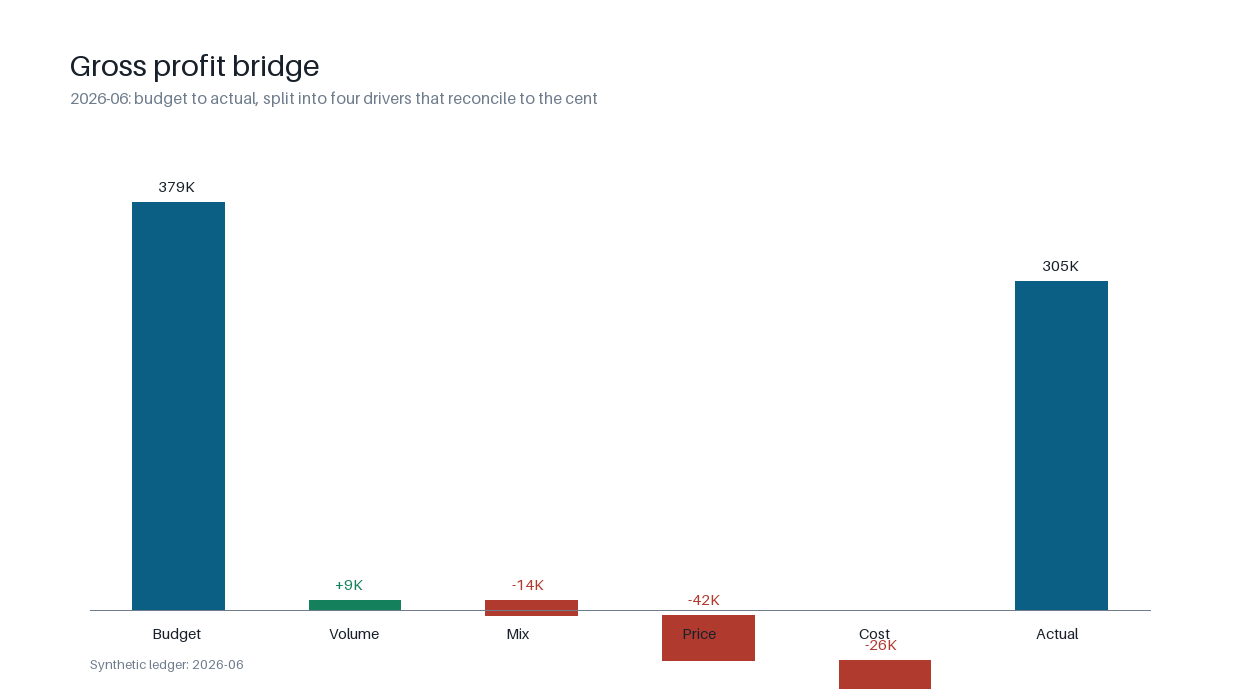
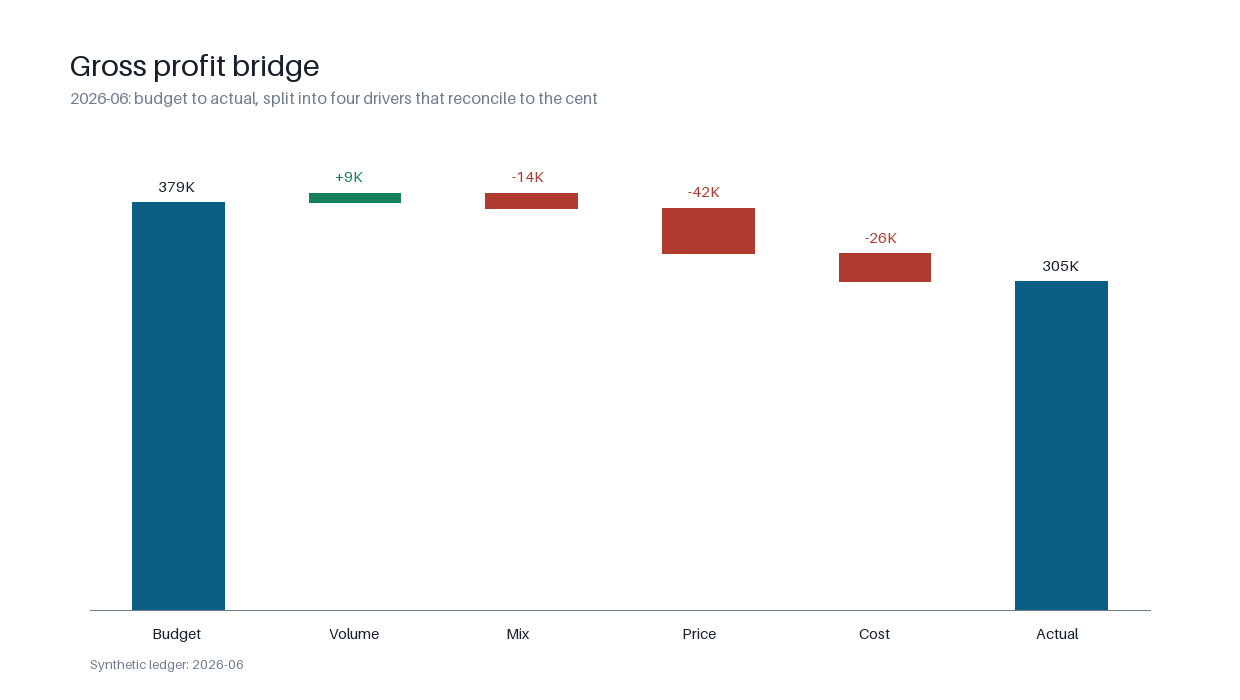
Anchor the waterfall at budget gross profit
The first delta bar started at zero instead of at the budget bar, so the
bridge drew five columns that did not chain. Guarded by a test that reads
the committed PNG back and checks each bar starts where the previous ended.
Also moves the trend legend clear of the month marker and adds month ticks.

diff --git a/tests/test_charts.py b/tests/test_charts.py
@@ -1,0 +1,100 @@
+"""The waterfall must actually be a waterfall.
+
+Bars are read back out of the rendered PNG and checked for the property that
+defines the chart: each bar starts where the previous one ended, and the chain
+starts at budget gross profit. A bar anchored at zero draws a plausible-looking
+picture of the wrong thing.
+"""
+
+import tempfile
+import unittest
+from pathlib import Path
+
+try:
+    from PIL import Image
+
+    HAVE_PIL = True
+except ImportError:  # pragma: no cover - charts are optional
+    HAVE_PIL = False
+
+from pack import generator, variance
+from pack.model import Ledger
+
+ACCENT = (11, 94, 132)
+GOOD = (21, 128, 92)
+WARN = (176, 58, 46)
+
+WIDTH, HEIGHT = 1240, 700
+LEFT, RIGHT, TOP, BOTTOM = 90, WIDTH - 90, 170, HEIGHT - 90
+
+
+def _longest_run(column, colour):
+    best, start = (0, -1), None
+    for index, value in enumerate(column):
+        if value == colour:
+            start = index if start is None else start
+        elif start is not None:
+            if index - 1 - start > best[1] - best[0]:
+                best = (start, index - 1)
+            start = None
+    if start is not None and len(column) - 1 - start > best[1] - best[0]:
+        best = (start, len(column) - 1)
+    return best
+
+
+@unittest.skipUnless(HAVE_PIL, "chart checks need Pillow")
+class WaterfallGeometryTest(unittest.TestCase):
+    @classmethod
+    def setUpClass(cls):
+        from pack import charts
+
+        cls.ledger = Ledger.from_dict(generator.build_ledger())
+        cls.analysis = variance.analyse_month(cls.ledger, "2026-06")
+        with tempfile.TemporaryDirectory() as tmp:
+            path = Path(tmp) / "bridge.png"
+            charts.bridge_waterfall(cls.analysis, path)
+            image = Image.open(path).convert("RGB")
+        cls.pixels = image.load()
+
+    def bar(self, index):
+        """(top, bottom, colour) of the bar drawn for step ``index``."""
+        slot = (RIGHT - LEFT) / 6
+        cx = int(LEFT + slot * index + slot / 2)
+        top_of_scan = TOP - 40
+        column = [self.pixels[cx, y] for y in range(top_of_scan, BOTTOM + 4)]
+        for colour in (ACCENT, GOOD, WARN):
+            start, end = _longest_run(column, colour)
+            if end - start >= 2:
+                return start + top_of_scan, end + top_of_scan, colour
+        self.fail(f"no bar of at least three rows at column {cx} for step {index}")
+
+    def test_the_chain_starts_at_the_budget_bar(self):
+        budget_top, _, budget_colour = self.bar(0)
+        self.assertEqual(budget_colour, ACCENT)
+        _, first_bottom, first_colour = self.bar(1)
+        self.assertEqual(first_colour, GOOD, "volume is favourable in this month")
+        self.assertLessEqual(abs(first_bottom - budget_top), 2)
+
+    def test_each_bar_starts_where_the_previous_one_ended(self):
+        for index in (2, 3, 4):
+            _, prev_bottom, prev_colour = self.bar(index - 1)
+            prev_top, _, _ = self.bar(index - 1)
+            previous_end = prev_top if prev_colour == GOOD else prev_bottom
+            top, bottom, colour = self.bar(index)
+            own_start = bottom if colour == GOOD else top
+            self.assertLessEqual(
+                abs(own_start - previous_end), 2,
+                f"step {index} starts at {own_start}, previous bar ends at {previous_end}",
+            )
+
+    def test_the_chain_lands_on_the_actual_gross_profit_bar(self):
+        _, cost_bottom, cost_colour = self.bar(4)
+        cost_top, _, _ = self.bar(4)
+        cost_end = cost_top if cost_colour == GOOD else cost_bottom
+        actual_top, _, actual_colour = self.bar(5)
+        self.assertEqual(actual_colour, ACCENT)
+        self.assertLessEqual(abs(actual_top - cost_end), 2)
+
+
+if __name__ == "__main__":
+    unittest.main()

diff --git a/pack/charts.py b/pack/charts.py
@@ -84,7 +84,9 @@ def bridge_waterfall(analysis: variance.MonthAnalysis, path: Path) -> Path:
 
     slot = (right - left) / len(steps)
     bar_width = slot * 0.52
-    running = 0.0
+    # The first delta bar starts at budget gross profit, not at zero: that is
+    # what makes the picture a bridge rather than five unrelated columns.
+    running = float(bridge.budget_gp)
     for index, (label, value, delta) in enumerate(steps):
         cx = left + slot * index + slot / 2
         if delta is None:
@@ -162,10 +164,16 @@ def gross_profit_trend(analysis: variance.MonthAnalysis, trend_rows, path: Path)
         if row["month"] == analysis.month:
             x = left + step_x * i
             draw.line([(x, top), (x, bottom)], fill=WARN, width=1)
-            draw.text((x - 42, top - 22), analysis.month, font=_font(13), fill=WARN)
+            draw.text((x - 46, top - 22), analysis.month, font=_font(13), fill=WARN)
 
-    draw.text((right - 210, 150), "— actual", font=_font(15), fill=ACCENT)
-    draw.text((right - 110, 150), "— budget", font=_font(15), fill=ACCENT_SOFT)
+    for i, row in enumerate(trend_rows):
+        if i % 3 == 0 or i == len(trend_rows) - 1:
+            x = left + step_x * i
+            draw.text((x - 26, bottom + 12), row["month"], font=_font(11), fill=MUTED)
+
+    # Legend on the left, clear of the month marker at the right edge.
+    draw.text((left, 148), "— actual", font=_font(15), fill=ACCENT)
+    draw.text((left + 96, 148), "— budget", font=_font(15), fill=ACCENT_SOFT)
     draw.text(
         (left, HEIGHT - 54),
         "Same seeded ledger; budget re-phased each January.",
